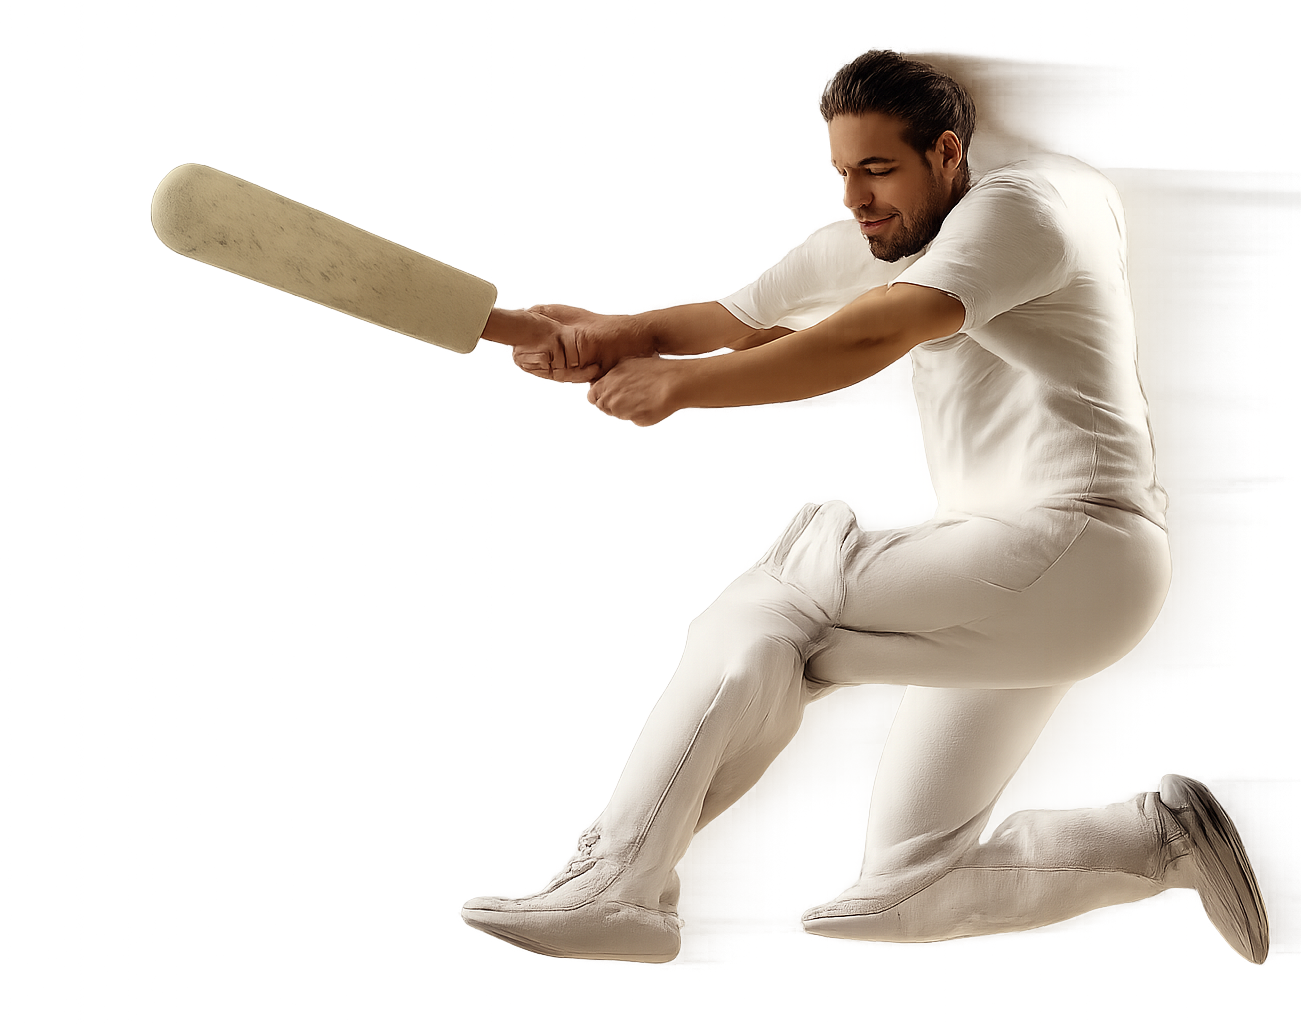
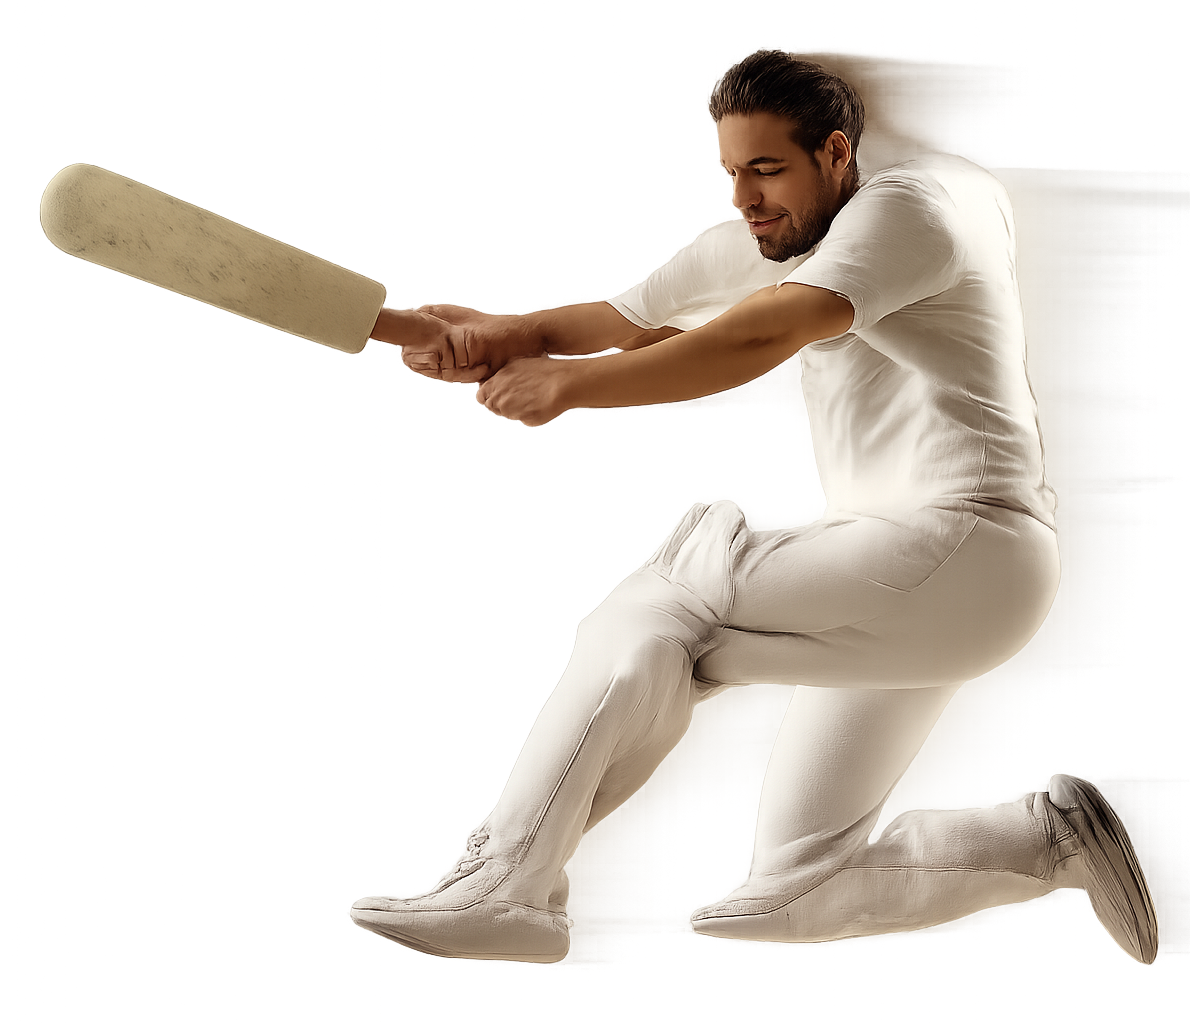
Update branding to SA Sporting Club
Rebranded header and hero section from Khelo Cricket Club to SA Sporting Club, updated logo and images, and adjusted layout and styles to reflect new branding.

Changed region(s): [[0.0311, 0.0312, 0.9017, 0.9375], [0.5597, 0.6562, 0.995, 0.9375]]

diff --git a/components/hero-section.tsx b/components/hero-section.tsx
@@ -5,14 +5,14 @@ export default function HeroSection() {
   return (
     <section className="h-screen w-full bg-[url('/header-full-image.png')] bg-cover bg-center opacity-100 text-white relative overflow-hidden min-h-screen">
       <div className="absolute inset-0 bg-gradient-to-r from-blue-900/80 to-transparent"></div>
-      <div className="container mx-auto px-4 relative z-10 flex items-center justify-center h-full">
+      <div className="px-4 relative z-10 flex items-center justify-center h-full">
         <div className="flex basis-[100%] items-center justify-start text-left">
-          <div className="space-y-8 basis-[50%]">
+          <div className="space-y-8 basis-[40%] ml-44">
             <h1 className="text-5xl lg:text-6xl font-bold leading-tight space-y-6">
-              Welcome to Khelo
+              Welcome to
               <br />
-              <p className="text-6xl lg:text-7xl font-extrabold">
-                <span className="text-yellow-400">CRICKET</span> CLUB
+              <p className="text-5xl lg:text-6xl font-extrabold">
+                <span className="text-yellow-400"> SA SPORTING</span> CLUB
               </p>
             </h1>
             <p className="text-xl text-blue-100 max-w-lg">
@@ -24,13 +24,13 @@ export default function HeroSection() {
             </Button>
           </div>
 
-          <div className="flex justify-center">
+          <div className="flex justify-center basis-[60%]">
             <Image
-              src="/header-image.png"
+              src="/hero-image.png"
               alt="Cricket Player"
               width={1200}
               height={1400}
-              className="z-10"
+              className="z-10 absolute bottom-0 right-0 h-full"
             />
           </div>
         </div>

diff --git a/components/header.tsx b/components/header.tsx
@@ -31,7 +31,7 @@ export default function Header({ isMenuOpen, setIsMenuOpen }: HeaderProps) {
       }`}
     >
       <div className="container mx-auto px-4">
-        <div className="flex items-center justify-between py-4">
+        <div className="flex items-center justify-between py-2">
           <div className="flex items-center space-x-3">
             <div
               className={`rounded-full transition-all duration-300 ${
@@ -39,11 +39,11 @@ export default function Header({ isMenuOpen, setIsMenuOpen }: HeaderProps) {
               }`}
             >
               <Image
-                src="/khelo-logo.png"
-                alt="Khelo Cricket Club"
-                width={48}
-                height={48}
-                className="w-12 h-12 transition-transform duration-300 transform hover:scale-110 overflow-hidden rounded-full"
+                src="/sa-sporting-club-logo.jpg"
+                alt="Khelo Sporting Club"
+                width={56}
+                height={56}
+                className="w-14 h-14 transition-transform duration-300 transform hover:scale-110 overflow-hidden rounded-full"
               />
             </div>
             <div>
@@ -52,15 +52,8 @@ export default function Header({ isMenuOpen, setIsMenuOpen }: HeaderProps) {
                   isScrolled ? "text-gray-900" : "text-white"
                 }`}
               >
-                Khelo
+                SA Sporting Club
               </h1>
-              <p
-                className={`text-xs drop-shadow-sm transition-colors duration-300 ${
-                  isScrolled ? "text-gray-600" : "text-blue-200"
-                }`}
-              >
-                CRICKET CLUB
-              </p>
             </div>
           </div>
 
